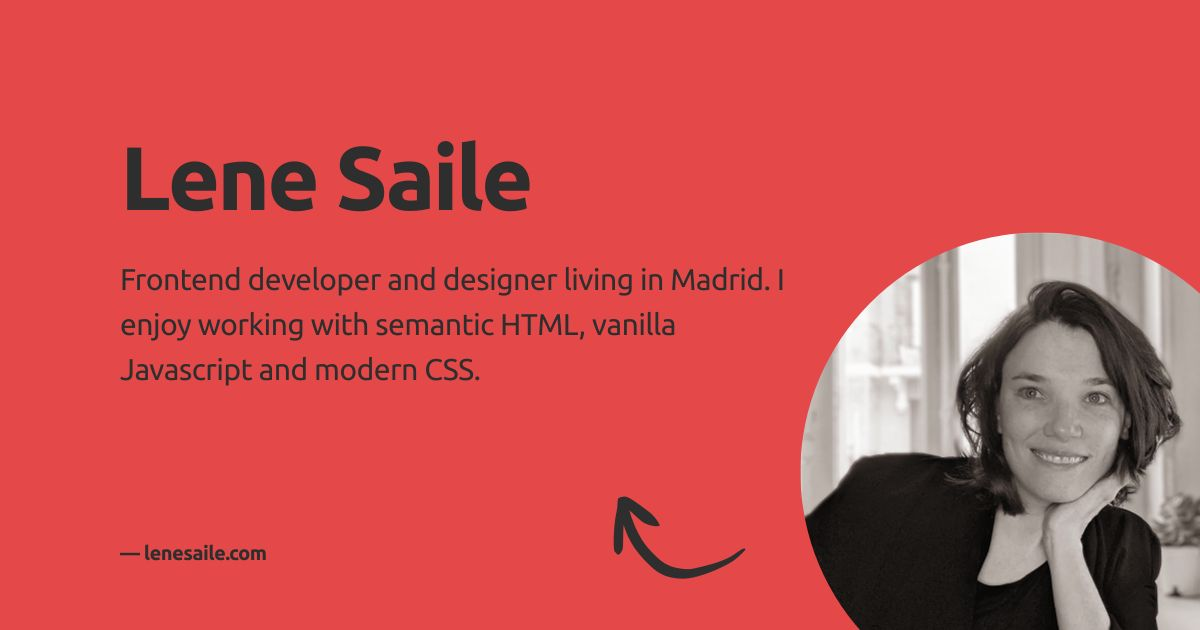
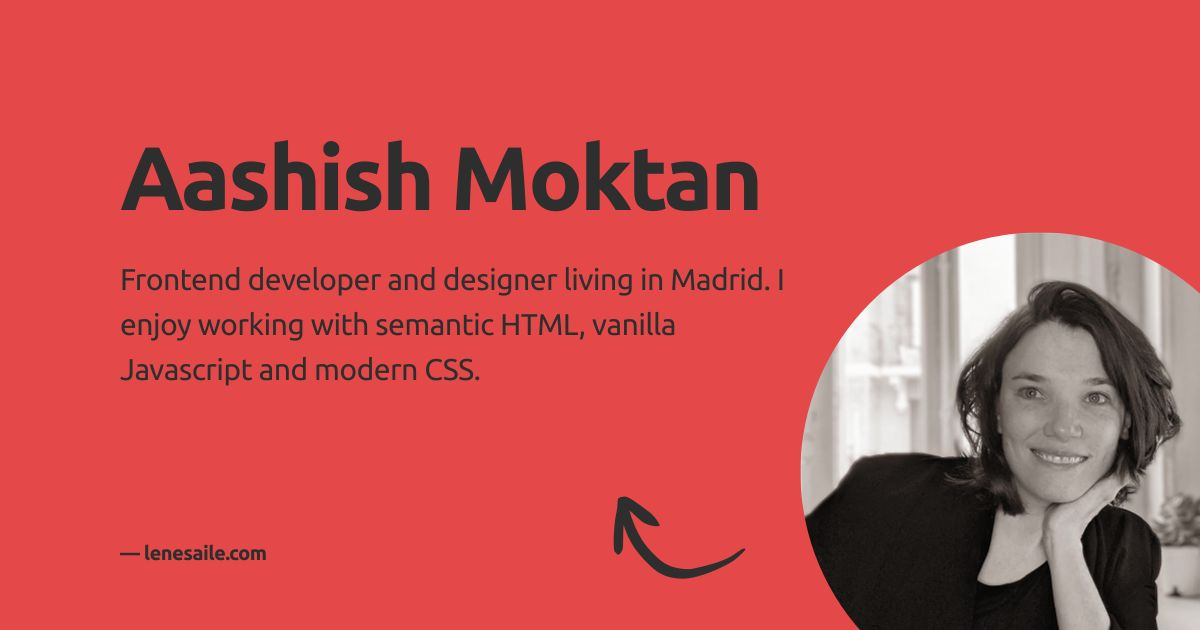
chore: add blog on factory function in javascript

Changed region(s): [[0.0925, 0.2111, 0.6475, 0.3619]]

diff --git a/src/_data/meta.js b/src/_data/meta.js
@@ -1,14 +1,14 @@
 export const url = process.env.URL || 'http://localhost:8080';
 // Extract domain from `url`
 export const domain = new URL(url).hostname;
-export const webmentionDomain = 'www.lenesaile.com';
-export const siteName = 'Lene Saile';
+export const webmentionDomain = 'www.aashishmoktan.com.np';
+export const siteName = 'Aashish  Moktan';
 export const siteType = 'Person'; // schema
 export const author = {
-  name: 'Lene Saile', // i.e. Lene Saile - page / blog author's name. Must be set.
+  name: 'Aashish Moktan', // i.e. Aashish Moktan - page / blog author's name. Must be set.
   avatar: '/icon-512x512.png', // path to the author's avatar. In this case just using a favicon.
-  email: 'hola@lenesaile.com', // i.e. hola@lenesaile.com - email of the author
-  website: 'https://www.lenesaile.com', // i.e. https.://www.lenesaile.com - the personal site of the author
+  email: 'aashiislama@gmail.com', // i.e. aashiislama@gmail.com - email of the author
+  website: 'https://www.aashishmoktan.com.np', // i.e. https.://www.lenesaile.com - the personal site of the author
   fediverse: '@lene@front-end.social' // used for highlighting journalism on the fediverse. Can be Mastodon, Flipboard, Threads, WordPress (with the ActivityPub plugin installed), PeerTube, Pixelfed, etc. https://blog.joinmastodon.org/2024/07/highlighting-journalism-on-mastodon/
 };
 export const creator = {

diff --git a/src/content/pages/en/index.md b/src/content/pages/en/index.md
@@ -1,15 +1,15 @@
 ---
-title: Lene Saile
+title: Aashish Moktan
 discover:
-  title: Lene Saile, developer and designer living in Madrid
+  title: Aashish, Software Developer living in Kathmandu
 permalink: /{{ lang }}/index.html
 key: 'home'
 layout: home
 hero:
-  title: I make highly optimized custom websites.
-  intro: I have been working as a web developer for over 15 years. As a freelancer and together with digital agencies I have designed and developed countless personalized websites for global brands, small and medium-sized enterprises, freelancers, individuals, associations and foundations. I value code organization and simplicity, performance and accessibility. I work with technologies of the web platform.
+  title: I love turning ideas into reality.
+  intro: Navigating the fullstack cosmos for 3+ years, I’ve orchestrated digital symphonies—crafting nimble Node.js backends, weaving Express.js into robust APIs, and sculpting databases that hum with efficiency. I build bridges between pixel-perfect interfaces and server-side logic, prioritizing clean code, frictionless performance, and accessibility. Whether optimizing MongoDB’s dance or tuning PostgreSQL’s rhythm, I thrive where data meets creativity, turning complex stacks into seamless, scalable stories.
   image: './src/assets/images/lene/lene2023.jpg'
-  alt: 'Lene sitting in front of her desk, smiling'
+  alt: 'Aashish sitting in front of her desk, smiling'
   hi: 'Hi, this is me.'
 projects:
   title: Have a look at some of my projects!
@@ -23,17 +23,17 @@ blog:
   intro: "I'm writing about things related to web development. Projects, approaches and observations, things I have learned or consider important."
 cta:
   title: "Let's talk!"
-  desktop: 'A project becomes successful on the Internet when it looks good, feels good and works with clean, secure technology. Since 2008 I create compelling web experiences with attention to detail.'
-  lead: "Send me a mail at [hola@lenesaile.com](mailto:hola@lenesaile.com) and tell me about your project, opportunities or whatever you have in mind! I'm always up for a chat."
+  desktop: 'A project becomes successful on the Internet when it looks good, feels good and works with clean, secure technology. Since 2022 I create compelling web experiences with attention to detail.'
+  lead: "Send me a mail at [aashiislama@gmail.com](mailto:aashiislama@gmail.com) and tell me about your project, opportunities or whatever you have in mind! I'm always up for a chat."
 ---
 
-I make sure that a website is fast and loads only what is necessary. Everyone should be able to find their way around immediately and a website should be ==accessible and usable for as many people as possible.==
+I architect applications that sprint — optimizing backend logic to slice latency, frontend bundles to shed bloat, and databases to serve only what’s essential. Every interface I build balances intuition with ==accessibility, ensuring seamless navigation for all users==, whether on a desktop or a dial-up connection.
 
-I do not create websites based on premade templates/themes and I do not use website builders. I plan, design and program all websites from scratch, usually using a foundation (“starter”) I have developed for the basics.
+I code ecosystems from the ground up, using my own battle-tested Node.js/Express foundation. Templates? They’re for IKEA furniture. Your project gets a blueprint, not a photocopy.
 
-This approach has various advantages:
+Why this matters:
 
-1. No image is too big, no code is too much - and the website runs error-free and extremely fast.
-2. I am independent of third parties, both from persons or external code: I react to problems and necessary updates myself.
-3. I create semantically structured websites with human-written, approachable contents that are highly discoverable without the need for additional SEO efforts.
-4. Truly, we can realize almost anything you can imagine!
+1. Speed as doctrine: APIs that fire like neurons, React/Vue components that load lighter than a PDF, and databases (MongoDB/PostgreSQL) tuned like Formula 1 engines.
+2. Full autonomy: I debug, scale, and secure every layer — no third-party ghosts haunting your codebase.
+3. Semantic by design: Clean markup, structured data, and content that humans (and search engines) crave. No SEO bandaids required.
+4. Boundless creativity: From real-time dashboards to AI-augmented APIs — if you dream it, we engineer it.

diff --git a/src/content/posts/en/2025-05-27-factory-function-javascript.md b/src/content/posts/en/2025-05-27-factory-function-javascript.md
@@ -1,0 +1,56 @@
+---
+title: 'Factory function in JavaScript'
+description: 🌟 Unlock the power of JavaScript with factory functions! Discover how these elegant constructs simplify object creation and enhance code reusability in our latest blog post!
+discover:
+  description: ''
+category: tech
+key: 'factory-function-javascript'
+date: 2025-05-27 08:00:00
+lastEdit:
+draft: false
+---
+
+# Understanding JavaScript Factory Function: A Comprehensive Guide
+
+Today, we're diving into the world of JavaScript and exploring one of its powerful features: factory functions. Whether you're a beginner or an experienced developer, understanding factory functions can enhance your coding skills and improve your code organization.
+
+## What is a Factory Function?
+
+In JavaScript, a factory function is a function that returns a new object each time it is called. This allows for the creation of multiple objects with similar properties and methods without the need for the `new` keyword. Factory functions provide a clean and efficient way to create object instances.
+
+## The Anatomy of a Factory Function
+
+Let's take a look at a simple example of a factory function in action:
+
+```javascript
+function createCar(make, model, year) {
+    return {
+        make: make,
+        model: model,
+        year: year,
+        displayInfo: function() {
+            return `${this.year} ${this.make} ${this.model}`;
+        }
+    };
+}
+
+// Creating instances of car objects
+const car1 = createCar('Toyota', 'Camry', 2020);
+const car2 = createCar('Honda', 'Accord', 2021);
+
+console.log(car1.displayInfo()); // Output: 2020 Toyota Camry
+console.log(car2.displayInfo()); // Output: 2021 Honda Accord
+```
+
+In the example above, the `createCar` function is a factory function that takes in parameters for `make`, `model`, and `year`. It returns an object that contains these properties and a method to display the car's information.
+
+## Why Use Factory Functions?
+Factor Functions come with several advantages:
+
+1. No `new` Keyword: You don't have to worry about using the `new` keyword, which can sometimes lead to confusion.
+2. Encapsulation: You can keep variables and methods private within the factory function, promoting better encapsulation.
+3. Dynamic Object Creation: Factory functions allow you to create Objects dynamically based on input parameters, making your code more flexible.
+
+
+## Conclusion
+Factory functions are a valuable tool in JavaScript that can simplify object creation and improve code maintainability. By using factory functions, you can write cleaner, more organized code that is easier to understand and manage.

diff --git a/src/content/pages/en/about.md b/src/content/pages/en/about.md
@@ -2,14 +2,14 @@
 title: About me
 permalink: /{{ lang }}/about/index.html
 key: 'about'
-description: "I'm a developer and designer in Madrid who has been building for the web professionally since 2008."
+description: "I'm a software developer based in Kathmandu who has been crafting innovative solutions since 2020."
 layout: about
-lead: "I'm a Berlin born, Madrid based developer and designer who has been building for the web professionally since 2008. I specialize in custom creative websites."
+lead: "I'm a Kathmandu based developer has been building for the web professionally since 2020. I specialize in crafting web applications."
 image: './src/assets/images/lene/lene-sobre-mi-2021.jpg'
-alt: 'Lene sitting on a gym ball in front of her desk, apparently working'
+alt: 'Aashish sitting on a gym ball in front of her desk, apparently working'
 breakout:
-  title: 'I live and work in Madrid'
-  intro: 'Since 2010, I have been living and working in Madrid, La Latina. I work with people all over the world.'
+  title: 'I live and work in Kathmandu'
+  intro: 'Since 2020, I have been living and working in Kathmandu, Nepal. I work with people all over the world.'
 finalWords: "I am constantly readjusting my perspectives and optimizing the way I work. With every new project I learn something new, and every new website becomes the best I have ever made. My projects strive to make the web (the world?) a bit better, for the people, and for the planet."
 faq:
   title: "FAQ"

diff --git a/src/content/posts/en/2025-05-27-node-memory-leak-troubleshooting.md b/src/content/posts/en/2025-05-27-node-memory-leak-troubleshooting.md
@@ -1,0 +1,17 @@
+---
+title: 'Node.js Memory Leak Troubleshooting'
+description: 'I have finally found the time, so I took my Eleventy Starter and rebuilt the website. It still looks the same in many parts, but I have refined, improved and changed almost everything.'
+discover:
+  description: ''
+category: tech
+key: '2025-nodejs'
+date: 2025-05-27 07:00:00
+lastEdit:
+draft: false
+---
+
+I rebuilt this website! I published the last version of it at the end of 2022. Since then I have learned so many things, gained new insights and so many new CSS possibilities have been added that at some point I was no longer happy with the code here.
+
+Now I have finally found the time, so I took my [Eleventy Starter](https://github.com/madrilene/eleventy-excellent) and rebuilt the website. It still looks the same in many parts, because I quite like the design of the page, but I have refined, improved and changed almost everything.
+
+May I finally find the strength to write articles again! I plan to take a deep dive into OG image creation, and write about how I use Eleventy to create my invoices. Now that I've said it, I have to stick to it! 📝

diff --git a/src/content/pages/en/projects.md b/src/content/pages/en/projects.md
@@ -7,6 +7,6 @@ layout: projects
 lead: 'Some of my latest projects. I want to make the web a little better: For the people and organizations I work with, for their users and for our planet.'
 cta:
   title: 'Get in touch!'
-  desktop: "Have you opened a restaurant? Do you design clothes and need a shop? Are you a coach? An actress, actor, singer? Have you set A cousin made you a website 10 years ago and it's going badly?..."
-  lead: "Send me a mail at [hola@lenesaile.com](mailto:hola@lenesaile.com) and tell me about your project, opportunities or whatever you have in mind! I'm always up for a chat."
+  desktop: "Do you run a startup? Manage a growing SaaS product? Need a custom dashboard for your internal tools? Are you building a marketplace, a booking platform, or a modern CMS? Still using a legacy app a friend built 10 years ago that's barely holding together?"
+  lead: "Send me a mail at [aashiislama@gmail.com](mailto:aashiislama@gmail.com) and tell me about your project, opportunities or whatever you have in mind! I'm always up for a chat."
 ---

diff --git a/src/content/pages/en/services.md b/src/content/pages/en/services.md
@@ -2,7 +2,7 @@
 title: What I do
 permalink: /{{ lang }}/services/index.html
 key: 'services'
-description: 'I focus on developing things for the web. I place value on performance, accessibility, simplicity and long term support.'
+description: 'I specialize in building robust backend systems with Node.js, Express, and modern databases. I care deeply about performance, scalability, security, and long-term maintainability.'
 layout: services
-lead: 'I focus on developing things for the web. My approach is semantic HTML, CSS, and a dash of JavaScript. I care about performance, accessibility, simplicity and long term support. Also: websites should be fun!'
+lead: 'I focus on crafting scalable and secure backend systems using Node.js, Express, and databases like MongoDB and PostgreSQL. I prioritize performance, clean architecture, and long-term support — and I believe well-built backends make everything else possible.'
 ---
